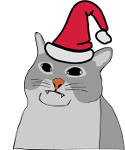
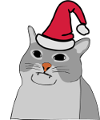
server version

diff --git a/public/css/w0bmcustom.css b/public/css/w0bmcustom.css
@@ -42,8 +42,8 @@ div.tbody {
 
 .catfart {
     position: fixed;
-    width: 125px;
-    height: 150px;
+    width: 100px;
+    height: 120px;
     right: 0;
     bottom: 0;
     overflow: hidden;
@@ -963,3 +963,22 @@ img.icon {
 #sidebar > .comments, #sidebar > .tags {
     border-bottom: 2px solid #1fb2b0;
 }
+
+/* Damit das Logo nicht mehr auf Handys gefickt ist */
+
+@media(max-width:35em) {
+	.navbar-brand > img {margin-left: 5px; height: 49px; margin-top: 0px;}
+}
+
+@media(max-width:40em) {
+	.navbar-brand > img {margin-left: 5px; height: 49px; margin-top: 0px;}
+}
+
+@media(max-width:45em) {
+	.navbar-brand > img {margin-left: 5px; height: 49px; margin-top: 0px;}
+}
+
+@media(max-width:48em) {
+	.navbar-brand > img {margin-left: 5px; height: 49px; margin-top: 0px;}
+}
+

diff --git a/public/js/w0bmscript.js b/public/js/w0bmscript.js
@@ -511,7 +511,7 @@ $(function() {
     });
 });
 
-/* bye bye kadse D: greetz gz
+
 (function() {
     new Image().src = "/images/catfart/cutf.png";
     var n = document.createElement("div");
@@ -533,7 +533,7 @@ $(function() {
 
     n.setAttribute("class", "catfart");
     document.body.appendChild(n);
-})();*/
+})();
 
 (function() {
     var v = document.getElementById("video");

diff --git a/resources/views/layout.blade.php b/resources/views/layout.blade.php
@@ -6,6 +6,8 @@
           content="width=device-width,initial-scale=1">
     <meta charset="UTF-8">
     <meta name="_token" content="{{csrf_token()}}">
+    <meta name="keywords" content="webm, webm site, w0bm, videos, funny, internet">
+    <meta name="Description" content="@if(!empty($video->interpret)){{$video->interpret}} – {{$video->songtitle}}@else()No Data Available ;__;@endif">
     <link rel="icon" href="/favicon.png">
     <title>@if(isset($video)){{ $video->id }} –@endif w0bm.com</title>
     <link rel="favicon" href="favicon.ico" type="image/ico">
@@ -16,7 +18,7 @@
     <link rel="stylesheet" href="/css/font-awesome.min.css">
     <link rel="stylesheet" href="/css/bootstrap-tagsinput.css">
     <link rel="stylesheet" href="/css/video-js.min.css">
-    <link rel="stylesheet" href="/css/w0bmcustom.css?v=1.0.26">
+    <link rel="stylesheet" href="/css/w0bmcustom.css?v=1.0.27">
 <!-- Piwik -->
 <script type="text/javascript">
   var _paq = _paq || [];
@@ -62,6 +64,6 @@
 <script src="/js/jquery.timeago.js"></script>
 <script src="/js/jquery.detectmobilebrowser.js"></script>
 <script src="/js/video.min.js"></script>
-<script src="/js/w0bmscript.min.js?v=1.1.11"></script>
+<script src="/js/w0bmscript.js?v=1.1.11"></script>
 </body>
 </html>

diff --git a/resources/views/donate.blade.php b/resources/views/donate.blade.php
@@ -25,8 +25,8 @@
 	<h5>Overview: ~</h5>
 	<p>Like us? Help to keep it alive.</p>
 	<div class="progress">
-  		<div class="progress-bar-success" role="progressbar" aria-valuenow="0" aria-valuemin="0" aria-valuemax="90" style="text-align:center; color:white; width: 59%;">
-		59,17€
+  		<div class="progress-bar-success" role="progressbar" aria-valuenow="0" aria-valuemin="0" aria-valuemax="90" style="text-align:center; color:white; width: 84%;">
+		84,17€
 		</div>
 	</div>
 	<p>Did you know: BTC is super cute :3</p>
@@ -186,6 +186,22 @@
             <td>10€</td>
 	    <td>BTC</td>
 	    <td>06.11.2016</td>
+        </tr>
+
+	<tr class="success">
+            <td>18.</td>
+            <td>Katatafisch</td>
+            <td>5€</td>
+	    <td>PayPal</td>
+	    <td>12.12.2016</td>
+        </tr>
+
+	<tr class="success">
+            <td>19.</td>
+            <td>thebigben123</td>
+            <td>20€</td>
+	    <td>BTC</td>
+	    <td>17.12.2016</td>
         </tr>
 
 	</tbody>

diff --git a/resources/views/video.blade.php b/resources/views/video.blade.php
@@ -4,7 +4,7 @@
     <div class="vertical-align">
         <div class="wrapper">
             <div class="embed-responsive embed-responsive-16by9">
-                <video id="video" loop autoplay controls preload="auto" src="/b/{{ $video->file }}"></video>
+                <video id="video" loop autoplay controls preload="auto" src="https://b.w0bm.com/{{ $video->file }}"></video>
             </div>
 			<div class="text-center" style="position: unset;">
 				@if($category)
@@ -72,7 +72,7 @@
 @endsection
 
 @section('aside')
-    <aside id="sidebar" class="aside panel">
+    <aside id="sidebar" class="aside panel hidden-xs">
     	@include('partials.comments')
 		@include('partials.tags')
 	</aside>

diff --git a/resources/views/partials/navigation.blade.php b/resources/views/partials/navigation.blade.php
@@ -40,7 +40,7 @@
 				    <li><input type="password" name="password" placeholder="Password" class="eingabe"></li>
 				    <li><button type="submit" class="btnlogin btn-primary">Login</button> <input class="cheggbogs" type="checkbox" name="remember"><span class="erinnerung">  Remember me</span></li>
 				    <li role="separator" class="divider"></li>
-				    <li class=""><a href="/register">Registration status: <span class="label label-danger">Closed</span></a></li>
+				    <li class=""><a href="/register">Registration status: <span class="label label-success">Open</span></a></li>
 				  </ul>
 		</div>
 	</form>

diff --git a/resources/views/privacy.blade.php b/resources/views/privacy.blade.php
@@ -16,6 +16,7 @@
 </ul>
 </ul>
 </ul>
+<h5 style="color: red;">Note: IPs are anonymized</h5>
 <h6>We use Piwik to monitor activities on our website, if you don't want to be tracked, please untick the checkbox down below.</h6>
 <iframe style="border: 0; height: 150px; width: 800px;" src="https://stats.w0bm.com/index.php?module=CoreAdminHome&action=optOut&language=en"></iframe>
 @include('footer')

diff --git a/config/comments.php b/config/comments.php
@@ -5,10 +5,11 @@ return [
     'i.imgur.com',
     'media.giphy.com',
     'files.nogf.club',
-    'i.webp.space',
     'a.cuntflaps.me',
     'f0ck.me',
-    'img.pr0gramm.com'
+    'img.pr0gramm.com',
+    'files.catbox.moe',
+    'i.sli.mg'
   ],
   'allowedImageFileExtensions' => [
     'jpg',

diff --git a/resources/views/partials/comments.blade.php b/resources/views/partials/comments.blade.php
@@ -1,7 +1,7 @@
 
 <div id="motd" class="panel panel-info hidden-xs">
     <div class="panel-body motd">
-        <span class="anim">Ａｕｔｉｓｍ – ａｌｗａｙｓ– ｗｉｎｓ</span>
+        <span style="color:#ff0094;">Danke Domian!</span>
     </div>
 </div>
 
